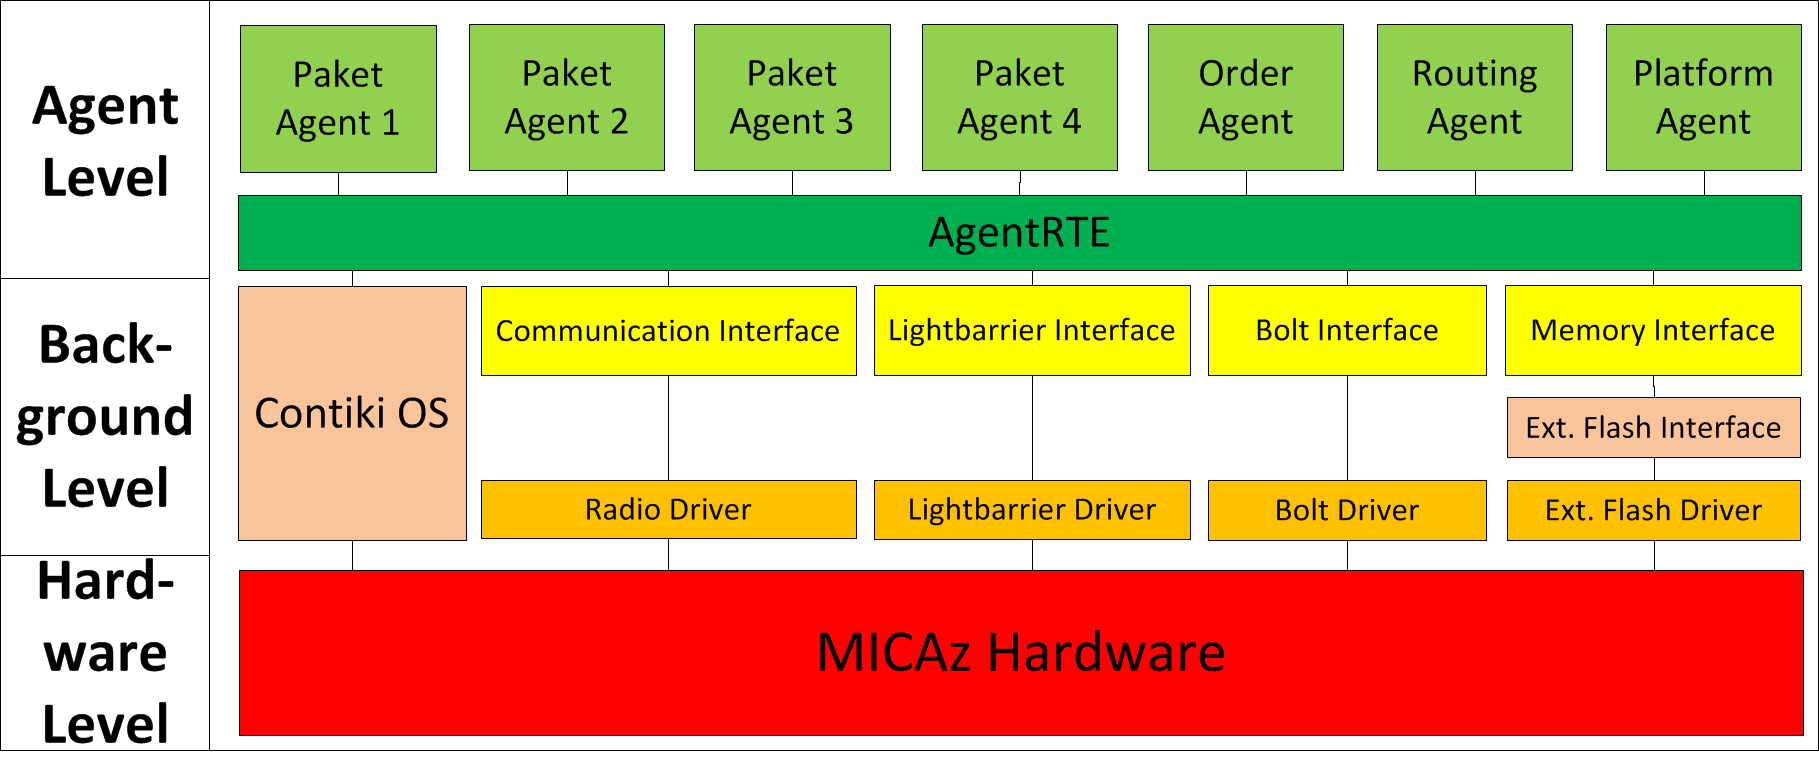
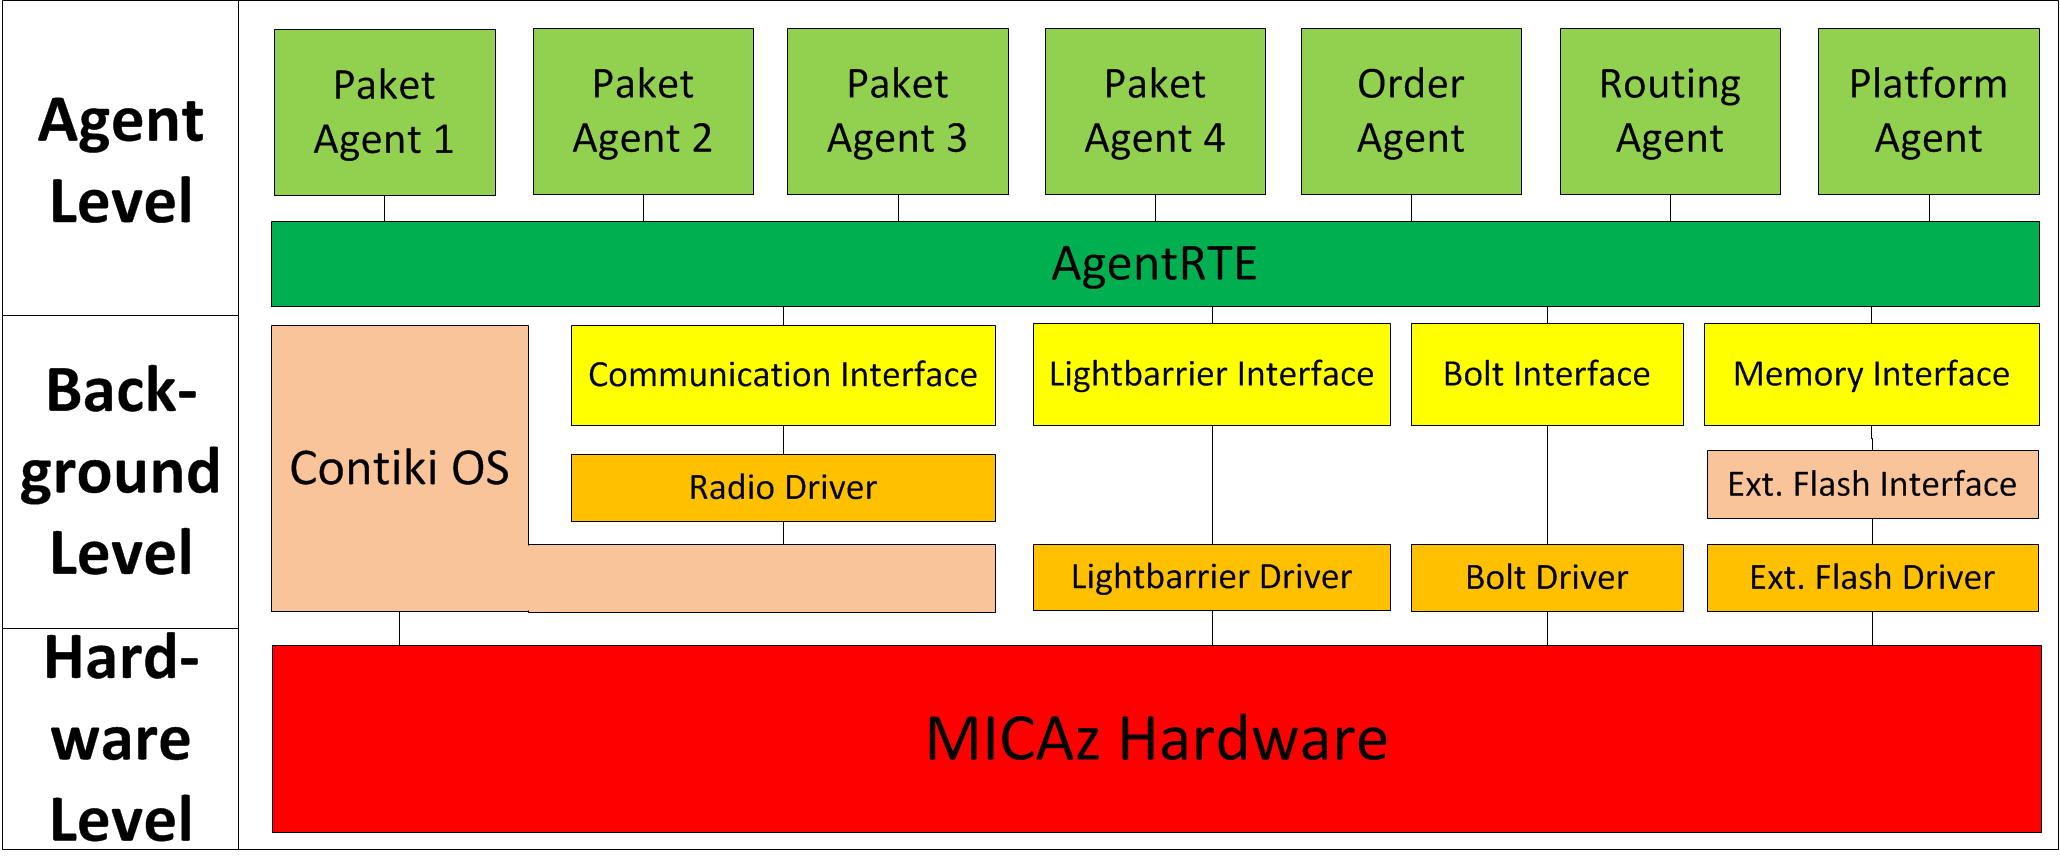
Einleitung zu 6.4

diff --git a/Endbericht/src/flow/4_Systemarchitektur.tex b/Endbericht/src/flow/4_Systemarchitektur.tex
@@ -1,18 +1,31 @@
 \subsection{Systemarchitektur}
 
+Das Materialflusssystem auf den \textsc{Mica}z-Modulen ist in einer Schichtenarchitektur aufgebaut. Diese ist an den Aufbau von AUTOSAR \cite{AUTOSAR:2014:Online} angelehnt. Abbildungen \ref{fig:architecture_ramp} und \ref{fig:architecture_vb} zeigen den Aufbau des Systems auf den Rampen beziehungsweise Volksbots.
+
 \begin{figure}[h!]
  \centering
-		\includegraphics[width=0.9\textwidth]{flow/Architektur_Rampe.png}
+		\includegraphics[width=1\textwidth]{flow/Architektur_Rampe.png}
 	\caption{Architektur der Rampe \cite{Stasch:Hahn}}
-	\label{ArchitekturMicazRampe}
+	\label{fig:architecture_ramp}
 \end{figure}
 
 \begin{figure}[h!]
  \centering
-		\includegraphics[width=0.9\textwidth]{flow/Architektur_VB.png}
+		\includegraphics[width=1\textwidth]{flow/Architektur_VB.png}
 	\caption{Architektur der Volksbots aus Sicht des Materialfluss \cite{Stasch:Hahn}}
-	\label{ArchitekturMicazVB}
+	\label{fig:architecture_vb}
 \end{figure}
+
+Ganz unten in der Hierarchie befindet sich die eigentliche \textsc{Mica}z Hardware (Hardware Level) mit allen Peripherie-Komponenten. Diese wird vom den darüber liegenden Background Level angesteuert. Im Backgrund Level befinden sich im je nach Modul hardwareabhängige Treiber für drahtlose und serielle Kommunikation, Lichtschranken, Bolzen und einen externen Flash-Speicher. Diese agieren meist auf Pin-Ebene, steuern also die einzelnen GPIOs des Mikrocontrollers. Eine Besonderheit stellt hier der Radio-Driver dar, der nicht direkt auf die Hardware, sondern auf den Kommunikationsstack des Echtzeitbetriebssystems Contiki zugreift.
+
+Darüber finden sich Interfaces, die die Funktionen der Treiber aufbereiten und in Funktionen gliedern, die es den oberen Schichten erlauben, ohne großen Aufwand und Kenntnis der Implementierungsdetails (konkreter Ein- beziehungsweise Ausgangs-Pin, Timing, usw.) auf die Hardware zuzugreifen. Neben den Treibern und Interfaces befindet sich im Background Level auch das Echtzeitbetriebssystem Contiki OS. Dieses beinhaltet unter anderem einen Scheduler, eine Prozessverwaltung und den Kommunikationsstack \textit{Rime} (siehe \autoref{sec:rime}). 
+
+Schließlich folgt auf der höchsten Hierarchieebene das Agent Level. Hier befindet sich zunächst das AgentRTE, eine Laufzeitumgebung für Agenten. Dieses ist weitgehend hardwareunabhängig. Lediglich bei der Prozessverwaltung gibt es noch Unterschiede die in \autoref{sec:AgentRTE} noch näher betrachtet werden.
+Aufgaben des AgentRTE sind vor allem die Verwaltung aller Agenten auf der Plattform und deren Scheduling, sowie der Austausch von Nachrichten untereinander.
+
+Das letzte Glied in der Kette bilden letztendlich die Agenten. Sie werden vom AgentenRTE verwaltet und sind grundsätzlich hardwareunabhängig. Die Agenten bilden die echte Betriebslogik des Systems ab und kommunizieren dafür untereinander mit Nachrichten. Auf jedem Modul gibt es einen Platform-, einen Order- und einen Routing-Agenten. Dazu können auf den Volksbots ein und auf den Rampen bis zu vier Paket-Agenten registriert sein.
+
+In den folgenden Abschnitten wird nun die Implementierung des Materialflusssystems anhand dieser Architektur erläutert, beginnend beim Echtzeitbetriebssystem Contiki, über die Treiber und Interfaces hin zum AgentenRTE und schließlich den Agenten.
 
 \subsubsection{Contiki}
 Contiki ist ein quelloffenes Echtzeitbetriebssystem (RTOS: Real Time Operating System), das in dieser Projektgruppe auf den \textsc{Mica}z-Modulen eingesetzt wird. Es ist speziell für die Anforderungen des Internet of Things und von Wireless Sensor Networks zugeschnitten und bietet einen einfachen ereignisgesteuerten Betriebssystemkern mit sogenannten Protothreads (Threads, die sich einen gemeinsamen Stack teilen und daher schnell gewechselt werden können), optionalem präemptives Multithreading, Interprozess-Kommunikation via Message-Passing mit Events, eine dynamische Prozessstruktur mit Unterstützung für das Laden und Beenden von Prozessen und einen nativen Kommunikationsstack für die drahtlose Kommunikation gemäß dem IEEE-Standard \textit{802.15.4}.
@@ -77,7 +90,7 @@ setzt seine Ausführung erst fort, wenn der aufgerufene Prozess die Kontrolle wi
 \paragraph{Scheduling und Timer}\mbox{}\\
 
 \paragraph{Der Rime Kommunikationsstack}\mbox{}\\
-
+\label{sec:rime}
 \input{src/flow/4_2_Treiber}
 \input{src/flow/4_3_AgentRTE}
 \input{src/flow/4_4_Agenten}

diff --git a/Endbericht/src/flow/4_3_AgentRTE.tex b/Endbericht/src/flow/4_3_AgentRTE.tex
@@ -1,4 +1,5 @@
 \subsubsection{Agenten RTE}
+\label{sec:AgentRTE}
 Auf der nächsten Hierarchieebene über den Interfaces liegt die Laufzeitumgebung der Agenten (AgentRTE). Es ist die erste plattformunabhängige Ebene über den Interfaces und dem Betriebssystem. Vergleicht man die Implementation für STASH-Controller und \textsc{Mica}z-Module, unterscheidet sich das AgentenRTE lediglich im Prozessmodell der Agenten, das abhängig vom Betriebssystem ist: Während die STASH-Controller mit dem MSP430-Mikrocontroller auf SYS/BIOS mit präemptivem Scheduling stetzen, läuft auf den \textsc{Mica}z-Modulen ein nicht-präemptives Contiki-System. Die Agenten auf den Stash-Controllern werden daher jeweils durch einen eigenen Prozess repräsentiert, während es auf den \textsc{Mica}z-Modulen einen gemeinsamen Prozess gibt, der Agenten über Funktionszeiger aufruft. Wir gehen hier nur auf die Implementierung auf den \textsc{Mica}z-Modulen ein.
 
 Neben dem Aufruf der einzelnen Agenten ist das AgentenRTE auch für das Registrieren und Terminieren der Agenten und den Austausch beziehungsweise die Verteilung von Nachrichten verantwortlich.
